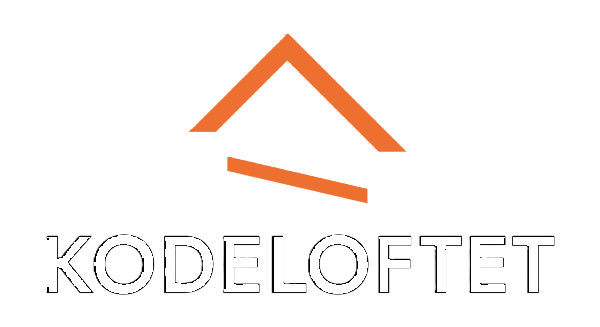
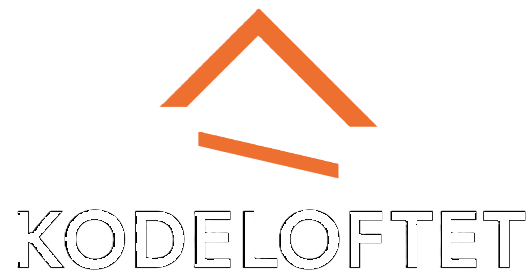
test

diff --git a/styles.css b/styles.css
@@ -78,6 +78,8 @@ audio {
    
 }
 
+
+
 .darkLightIcon {
   margin-left:28px;
   height: 64px;
@@ -167,6 +169,7 @@ a {
   padding-left:0;
   gap:41px;
   list-style-type: none;
+  transition: all 0.4s ease;
   
   
 }
@@ -242,6 +245,54 @@ a {
 }
 
 /* HEADER styling mobile L or less */
+
+@media (min-width: 1024px) and (max-width: 1439px)
+{
+   .headerNav{
+    font-size: 10px;
+    /* background-color:red; */
+   }
+
+   .navListHeader {
+    font-size: 22px;
+    gap: 35px;
+   }
+
+   .logoSaturnImg {
+    height: 45px;
+   }
+
+   .darkLightIcon {
+    height: 48px;
+   }
+
+   .languageButton {
+    font-size: 18px;
+   }
+
+   .heroText {
+    width: 30%;;
+   }
+
+   .logoKodeloftetImg {
+    
+      height: 10px;
+      width: auto;
+      padding-left: 0;
+     }
+
+     footer {
+       font-size: 8px;
+     }
+
+     .textNASA, .textMyName, .textWSCreated {
+      font-size: 10px;
+     }
+
+     .
+   
+}
+
 
 @media (max-width: 426px) {
 
@@ -1245,8 +1296,8 @@ footer {
 } 
 
 .logoKodeloftetImg {
-  width:155px;
-  padding-left: 28px;
+height: 50px;
+ padding-left: 28px;
 
 }
 .textNASA, .textWSCreated, .textMyName {
@@ -1262,7 +1313,7 @@ footer {
 
 .textMyName {
    color: #EE7700;
-   
+ 
  
 }
 
